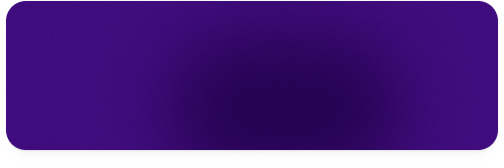
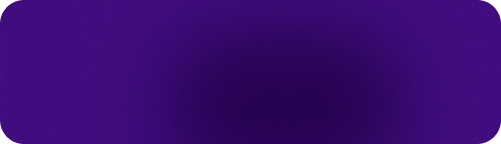
SCRUM-261-1

Changed region(s): [[0.0, 0.0, 1.0, 1.0]]

diff --git a/src/app/components/tools/tools.component.scss b/src/app/components/tools/tools.component.scss
@@ -1,3 +1,17 @@
+// Variables z-index pour la hiérarchie des couches
+$z-index-background: 0; // Image de fond (en dessous)
+$z-index-hover: 1; // Images hover (au-dessus du background)
+$z-index-content: 2; // Contenu (texte, icônes - au-dessus de tout)
+
+@mixin hover-pseudo-element {
+   content: "";
+   position: absolute;
+   inset: 0;
+   opacity: 0;
+   pointer-events: none;
+   z-index: $z-index-hover;
+}
+
 .tools-container {
    gap: var(--spacing-5);
    padding: var(--spacing-3);
@@ -32,78 +46,48 @@
    border-radius: var(--border-radius-4);
    pointer-events: none;
    transition: opacity 0.2s;
-   z-index: 0;
+   z-index: $z-index-background;
 }
 
 // Styles communs pour les pseudo-éléments hover
-#password-check-tool::before,
-#blur-image-tool::before,
-#visibility-check-tool::before {
-   content: "";
-   position: absolute;
-   inset: 0;
+.hoverable::before {
+   @include hover-pseudo-element;
    border-radius: var(--border-radius-4);
-   opacity: 0;
-   transition: opacity 0.2s;
-   pointer-events: none;
-   z-index: 0;
 }
 
-#password-check-tool::before {
+// Images spécifiques pour chaque tool (plus spécifique pour surcharger)
+.hoverable.password-check-hover::before {
    background: url("../../../assets/images/Property-hover.png") center/cover;
 }
 
-#blur-image-tool::before {
+.hoverable.blur-image-hover::before {
    background: url("../../../assets/images/blur-hover-.png") center/cover;
 }
 
-#visibility-check-tool::before {
+.hoverable.visibility-check-hover::before {
    background: url("../../../assets/images/visibility-hover.png") center/cover;
 }
 
-#password-check-tool::after,
-#blur-image-tool::after,
-#visibility-check-tool::after {
-   content: "";
-   position: absolute;
-   inset: 0;
-   background: url("/assets/images/Property-hover.png") center/cover;
-   border-radius: var(--border-radius-3);
-   opacity: 0;
-   transition: opacity 0.2s;
-   pointer-events: none;
-   z-index: 0;
-}
-
-// Hover commun
-#password-check-tool:hover::before,
-#password-check-tool:active::before,
-#blur-image-tool:hover::before,
-#blur-image-tool:active::before,
-#visibility-check-tool:hover::before,
-#visibility-check-tool:active::before,
-#password-check-tool:hover::after,
-#password-check-tool:active::after,
-#blur-image-tool:hover::after,
-#blur-image-tool:active::after,
-#visibility-check-tool:hover::after,
-#visibility-check-tool:active::after {
+// États hover/active
+.hoverable:hover::before,
+.hoverable:active::before {
    opacity: 1;
 }
 
-#password-check-tool:hover .tools-item-bg,
-#password-check-tool:active .tools-item-bg,
-#blur-image-tool:hover .tools-item-bg,
-#blur-image-tool:active .tools-item-bg,
-#visibility-check-tool:hover .tools-item-bg,
-#visibility-check-tool:active .tools-item-bg {
+.hoverable:hover .tools-item-bg,
+.hoverable:active .tools-item-bg {
    opacity: 0;
+}
+
+// Classe utilitaire pour les éléments de contenu au-dessus des hover
+.tools-content-layer {
+   position: relative;
+   z-index: $z-index-content;
 }
 
 .tools-item-body {
    gap: var(--spacing-2);
-   position: relative;
-   z-index: 2;
+   @extend .tools-content-layer;
 }
 
 .tools-item-img {
@@ -111,19 +95,16 @@
    max-width: 116px;
    height: 92px;
    object-fit: contain;
-   position: relative;
-   z-index: 2;
+   @extend .tools-content-layer;
 }
 
 .tools-item-text {
    gap: var(--spacing-1);
-   position: relative;
-   z-index: 2;
+   @extend .tools-content-layer;
 }
 
 .tools-item > div:last-child {
-   position: relative;
-   z-index: 2;
+   @extend .tools-content-layer;
 }
 
 .tools-item-title {

diff --git a/src/app/components/tools/tools.component.html b/src/app/components/tools/tools.component.html
@@ -4,7 +4,7 @@
    <div class="tools-items flex flex-col">
       <div
          id="password-check-tool"
-         class="tools-item flex justify-between items-center cursor-pointer"
+         class="tools-item hoverable password-check-hover flex justify-between items-center cursor-pointer"
          (click)="onClickTool('password-check')"
          role="button"
          tabindex="0"
@@ -42,7 +42,7 @@
       </div>
       <div
          id="blur-image-tool"
-         class="tools-item flex justify-between items-center cursor-pointer"
+         class="tools-item hoverable blur-image-hover flex justify-between items-center cursor-pointer"
          (click)="onClickTool('blur-image')"
          role="button"
          tabindex="0"
@@ -80,7 +80,7 @@
       </div>
       <div
          id="visibility-check-tool"
-         class="tools-item flex justify-between items-center cursor-pointer"
+         class="tools-item hoverable visibility-check-hover flex justify-between items-center cursor-pointer"
          (click)="onClickTool('visibility-check')"
          role="button"
          tabindex="0"

diff --git a/src/app/components/design-system/card-8/card-8.component.scss b/src/app/components/design-system/card-8/card-8.component.scss
@@ -5,7 +5,6 @@
    gap: var(--spacing-1);
    background-color: var(--background-2);
    border-radius: 12px;
-   transition: background-color 0.2s ease;
 }
 
 .card-container:hover,
